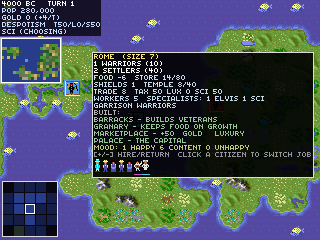
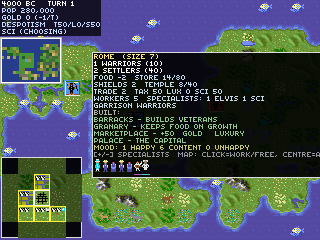
Clickable city tiles: hand-manage citizens like Civ1
The city screen's work-radius map is now full terrain tiles with their
yield icons (food/shields/trade, drawn from a teal-keyed copy of the
SP257 icon row).  Clicking a tile manages citizens by hand: a worked tile
frees its citizen to a specialist, an idle tile puts a specialist to work
it, and clicking the centre hands control back to the governor.

Model: a city tracks manual-tiles + tile-locks; city-auto-work honours
them in hand-assignment mode and otherwise optimises as before.  New
:work-tile command, persistence, and 5 tests (1027 checks pass).

diff --git a/README.md b/README.md
@@ -102,9 +102,16 @@ tech, so only what's been researched appears.*
 The menu doubles as a Civ1-style **city screen**: alongside the buildable roster
 it reads out the city's food balance and granary store, the current production
 and its progress, the trade split into tax/luxury/science, the workforce, the
-garrison, and the improvements already built. A small **work-radius map** in the
-bottom-left shows the 21-tile fat cross around the city, with the tiles its
-citizens are working brightened and the centre tile boxed in white.
+garrison, and the improvements already built. A **work-radius map** in the
+bottom-left shows the 21-tile fat cross around the city as real terrain, the
+centre tile holding the city and each worked tile framed in yellow and annotated
+with its **yield icons** (food, shields, trade — the original SP257 symbols).
+
+Like Civ1, you **manage the tiles by clicking them**: click a worked tile to free
+it (its citizen leaves the land and becomes a specialist), click an idle tile in
+range to put a citizen to work it, and click the centre to hand the arrangement
+back to the governor's auto-optimiser. This lets you force a city to work its
+high-food tiles to grow, or its high-shield tiles to rush a wonder.
 
 Along the bottom of the panel runs a **population bar**, one little citizen
 sprite per inhabitant (the original SP257 figures): happy, content and unhappy
@@ -122,9 +129,10 @@ entertainers to head off riots.
 ![Rome's city screen](docs/city-screen.png)
 
 *Size-7 Rome with `Workers 5  specialists: 1 elvis 1 sci`: a Temple at `8/40`
-shields, a Warriors garrison, Barracks/Granary/Marketplace/Palace built, the work
-map showing the five worked tiles, and a population bar of one happy and four
-content workers followed by the Elvis and scientist specialists.*
+shields, a Warriors garrison, Barracks/Granary/Marketplace/Palace built, a
+population bar of one happy and four content workers followed by the Elvis and
+scientist specialists, and the work-radius map showing the five worked tiles
+(framed in yellow with their food/trade yield icons) around the city centre.*
 
 Production accumulates shields each turn until the item completes. Below, after
 Rome has grown and worked its tiles for ~150 turns, the Pyramids are done: they
